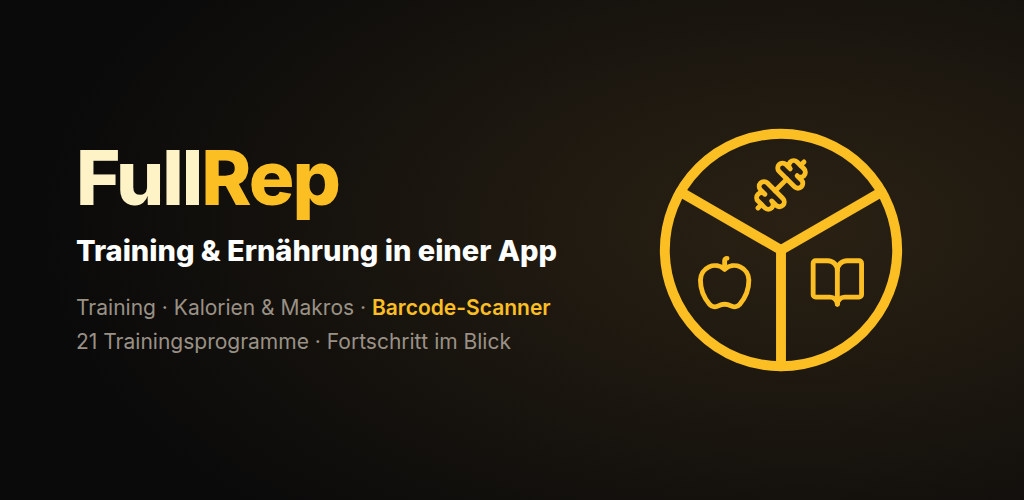
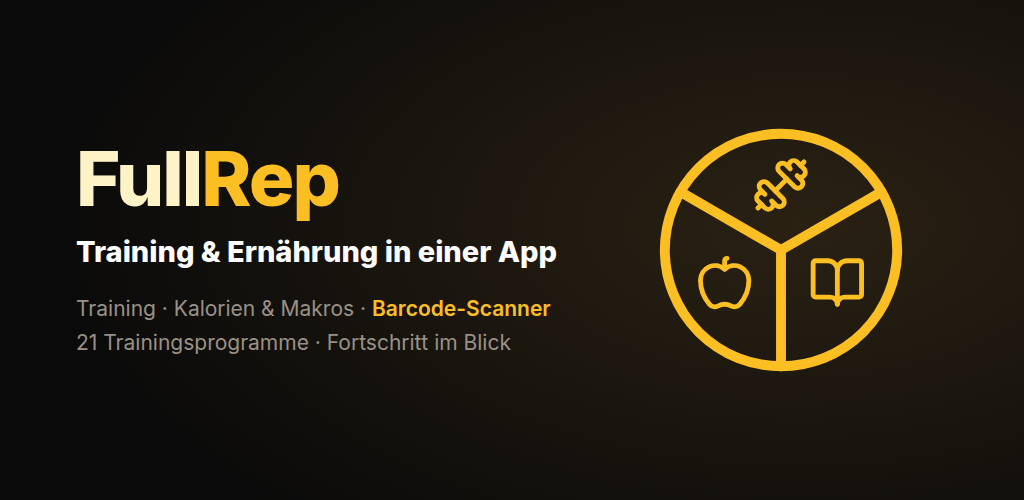
Vorstellungsgrafik für Play in allen sechs Sprachen
Play zeigte auf der englischen, spanischen usw. Seite die deutsche Grafik.
render-store-graphics.py rendert sie jetzt je Sprache (Arabisch gespiegelt),
play-listing.yml (Modus grafiken) nimmt die Datei der gewählten Sprache.

Claude-Session: https://claude.ai/code/session_01WRkwuSMcujub3A7bMTVCAm

diff --git a/scripts/render-store-graphics.py b/scripts/render-store-graphics.py
@@ -5,13 +5,18 @@ Zwei Bilder, die NICHT in der App stecken und deshalb beim App-Update nicht
 mitwandern — sie liegen als eigene Uploads im Store-Eintrag:
 
   store-assets/android/icon-512.png        512x512, quadratisch, ohne Alpha
-  store-assets/android/feature-graphic.png 1024x500
+  store-assets/android/feature-graphic.png 1024x500   (de)
+  store-assets/<lang>/android/feature-graphic.png   (en, es, fr, pt, ar)
 
 Quelle ist dasselbe public/favicon.svg wie fuer alle App-Icons, gerendert mit
 headless Chromium; die Schrift ist das im Projekt liegende Inter. Damit sehen
 Store und App gleich aus, statt auseinanderzulaufen.
 
     python3 scripts/render-store-graphics.py
+
+Die Vorstellungsgrafik gibt es seit 10/2026 je Sprache. Vorher stand auf der
+englischen, spanischen usw. Store-Seite „Training & Ernährung in einer App" —
+Play nimmt die Grafik der Standardsprache, wenn eine Sprache keine eigene hat.
 """
 import base64
 import glob
@@ -103,6 +108,67 @@ def kopf(weights):
     return faces
 
 
+# Vorstellungsgrafik je Sprache: (Unterzeile, Zeile 1, hervorgehoben, Zeile 2).
+# "FullRep" bleibt in jeder Sprache stehen — Eigenname.
+FEATURE_TEXTE = {
+    "de": ("Training &amp; Ernährung in einer App",
+           "Training · Kalorien &amp; Makros · ", "Barcode-Scanner",
+           "21 Trainingsprogramme · Fortschritt im Blick"),
+    "en": ("Training &amp; nutrition in one app",
+           "Workouts · Calories &amp; macros · ", "Barcode scanner",
+           "21 training programs · Progress at a glance"),
+    "es": ("Entreno y nutrición en una sola app",
+           "Entreno · Calorías y macros · ", "Escáner de códigos",
+           "21 programas · Tu progreso de un vistazo"),
+    "fr": ("Sport et nutrition dans une seule app",
+           "Séances · Calories &amp; macros · ", "Scanner code-barres",
+           "21 programmes · Tes progrès en un coup d’œil"),
+    "pt": ("Treino e nutrição em um só app",
+           "Treino · Calorias e macros · ", "Leitor de código",
+           "21 programas de treino · Seu progresso à vista"),
+    "ar": ("التدريب والتغذية في تطبيق واحد",
+           "تدريب · سعرات وماكروز · ", "قارئ الباركود",
+           "21 برنامجًا تدريبيًا · تقدّمك أمام عينيك"),
+}
+
+
+def feature_html(lang, mark):
+    unter, z1, hervor, z2 = FEATURE_TEXTE[lang]
+    rtl = lang == "ar"
+    # Arabisch liest von rechts: Text rechts, Zeichen links, Verlauf gespiegelt.
+    # Inter hat keine arabischen Glyphen — dort uebernimmt die Systemschrift.
+    seite_text, seite_mark = ("right", "left") if rtl else ("left", "right")
+    verlauf = "22% 45%" if rtl else "78% 45%"
+    return f"""<style>
+      {kopf([400, 600, 800])}
+      html,body{{margin:0;padding:0;overflow:hidden;width:1024px;height:500px;
+        background:{BG};font-family:Inter,'DejaVu Sans',sans-serif;
+        -webkit-font-smoothing:antialiased}}
+      .wrap{{position:relative;width:1024px;height:500px;overflow:hidden;
+        background:radial-gradient(120% 130% at {verlauf}, #2a2113 0%, {BG} 62%)}}
+      .text{{position:absolute;{seite_text}:76px;top:50%;transform:translateY(-50%);
+        width:570px;direction:{'rtl' if rtl else 'ltr'};text-align:{seite_text}}}
+      h1{{margin:0;font-weight:800;font-size:76px;letter-spacing:-2px;
+        color:#fef3c7;line-height:1;direction:ltr;unicode-bidi:isolate}}
+      h1 span{{color:{GOLD}}}
+      h2{{margin:18px 0 0;font-weight:800;font-size:29px;color:#ffffff;
+        line-height:1.25}}
+      p{{margin:22px 0 0;font-weight:400;font-size:21px;color:#9a9186;
+        line-height:1.6}}
+      p b{{font-weight:600;color:{GOLD}}}
+      .mark{{position:absolute;{seite_mark}:74px;top:50%;transform:translateY(-50%);
+        width:338px;height:338px}}
+    </style>
+    <div class="wrap">
+      <div class="text">
+        <h1>Full<span>Rep</span></h1>
+        <h2>{unter}</h2>
+        <p>{z1}<b>{hervor}</b><br>{z2}</p>
+      </div>
+      <img class="mark" src="{mark}">
+    </div>"""
+
+
 def main():
     chrome = find_chrome()
     os.makedirs(OUT, exist_ok=True)
@@ -120,39 +186,15 @@ def main():
         f"<img src='{logo}'>",
         512, 512, os.path.join(OUT, "icon-512.png"), chrome)
 
-    # ── Vorstellungsgrafik 1024x500 ───────────────────────────────────────
+    # ── Vorstellungsgrafik 1024x500, je Sprache ───────────────────────────
     # Aufbau wie die alte MyPeak-Grafik: Text links, Zeichen rechts. Der
     # Farbverlauf nimmt das Gold auf, ohne dem Logo Kontrast zu nehmen.
-    html = f"""<style>
-      {kopf([400, 600, 800])}
-      html,body{{margin:0;padding:0;overflow:hidden;width:1024px;height:500px;
-        background:radial-gradient(120% 130% at 78% 45%, #2a2113 0%, {BG} 62%);
-        font-family:Inter,sans-serif;
-        -webkit-font-smoothing:antialiased}}
-      .wrap{{position:relative;width:1024px;height:500px;overflow:hidden;
-        background:radial-gradient(120% 130% at 78% 45%, #2a2113 0%, {BG} 62%)}}
-      .text{{position:absolute;left:76px;top:139px;width:560px}}
-      h1{{margin:0;font-weight:800;font-size:76px;letter-spacing:-2px;
-        color:#fef3c7;line-height:1}}
-      h1 span{{color:{GOLD}}}
-      h2{{margin:18px 0 0;font-weight:800;font-size:29px;color:#ffffff;
-        line-height:1.25}}
-      p{{margin:22px 0 0;font-weight:400;font-size:21px;color:#9a9186;
-        line-height:1.6}}
-      p b{{font-weight:600;color:{GOLD}}}
-      .mark{{position:absolute;right:74px;top:50%;transform:translateY(-50%);
-        width:338px;height:338px}}
-    </style>
-    <div class="wrap">
-      <div class="text">
-        <h1>Full<span>Rep</span></h1>
-        <h2>Training &amp; Ernährung in einer App</h2>
-        <p>Training · Kalorien &amp; Makros · <b>Barcode-Scanner</b><br>
-           21 Trainingsprogramme · Fortschritt im Blick</p>
-      </div>
-      <img class="mark" src="{mark}">
-    </div>"""
-    shoot(html, 1024, 500, os.path.join(OUT, "feature-graphic.png"), chrome)
+    # de liegt im alten Pfad (play-listing.yml, Modus grafiken, lang de-DE).
+    for lang in FEATURE_TEXTE:
+        ziel = OUT if lang == "de" else os.path.join(ROOT, "store-assets", lang, "android")
+        os.makedirs(ziel, exist_ok=True)
+        shoot(feature_html(lang, mark), 1024, 500,
+              os.path.join(ziel, "feature-graphic.png"), chrome)
 
 
 if __name__ == "__main__":

diff --git a/CLAUDE.md b/CLAUDE.md
@@ -29,6 +29,14 @@ Inhaltsbibliotheken (siehe 4b und 4c)
 | Android | **vc22 (1.5.3) auf `production`, an alle** (`android-release` 37152484197) |
 | iOS | Build 12 hochgeladen (`ios-release` 37152009966, **GitHub-Rechner**, weil der Mac offline war) → Version 1.5.3 angelegt → 7 Lokalisierungen (en-US, en-GB, es-ES, es-MX, fr-FR, pt-BR, ar-SA) mit Texten und `whatsNew` → 84 Screenshots → Build 12 `VALID`, zugewiesen → **eingereicht**, Einreichung `e34b1183-4118-4398-bf7c-dc96a02ee002`, `WAITING_FOR_REVIEW`. Beide Abos `APPROVED` |
 
+**Vorstellungsgrafik je Sprache (03.10., Nachtrag):** Bis dahin zeigte Play auf
+jeder Sprachseite die deutsche Grafik („Training & Ernährung in einer App"), weil Play
+die Grafik der Standardsprache nimmt, wenn eine Sprache keine eigene hat.
+`render-store-graphics.py` rendert sie jetzt sechssprachig nach
+`store-assets/<lang>/android/feature-graphic.png` (de im alten Pfad). Arabisch ist
+gespiegelt: Text rechts, Zeichen links. `play-listing.yml` nimmt sie im Modus
+`grafiken` je `lang`.
+
 **Nach der Freigabe prüfen:** iTunes-Lookup `?id=6788461300&country=us`,
 `languageCodesISO2A` muss `EN` enthalten.
 
